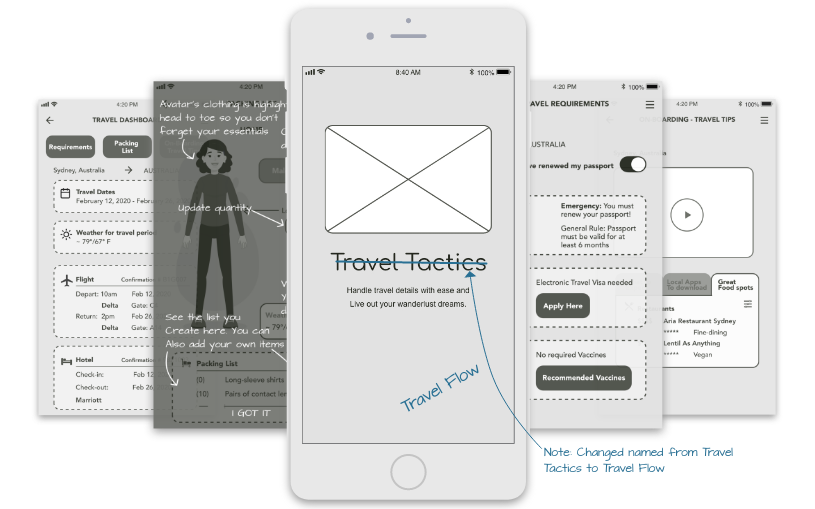
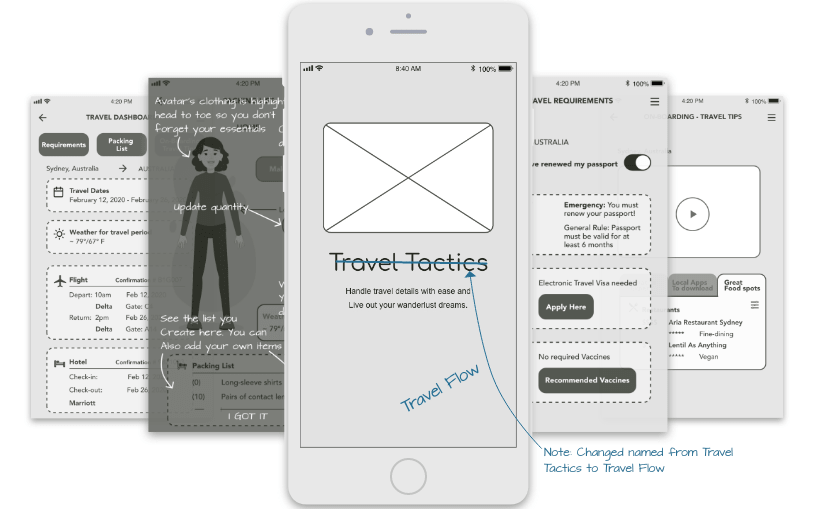
changed to png
works with png but not with jpg

diff --git a/case-TA.html b/case-TA.html
@@ -617,10 +617,9 @@
                         <div class="col-12 col-lg-6 d-flex justify-content-center justify-content-lg-start align-self-center">
                             <div>
                                 <h3 class="data-title text-center">Digital Wireframe</h3>
-                                <img class="artifact img-fluid" src="images/case-TA-digitalwireframe@2x.jpg" alt="digital wireframes">
+                                <img class="artifact img-fluid" src="images/case-TA-digitalwireframe.png" alt="digital wireframes">
                             </div>
                         </div>
-                        <img class="artifact img-fluid" src="images/case-TA-digitalwireframe@2x.jpg" alt="digital wireframes">
                     </div>
                 </div>
             </div>
